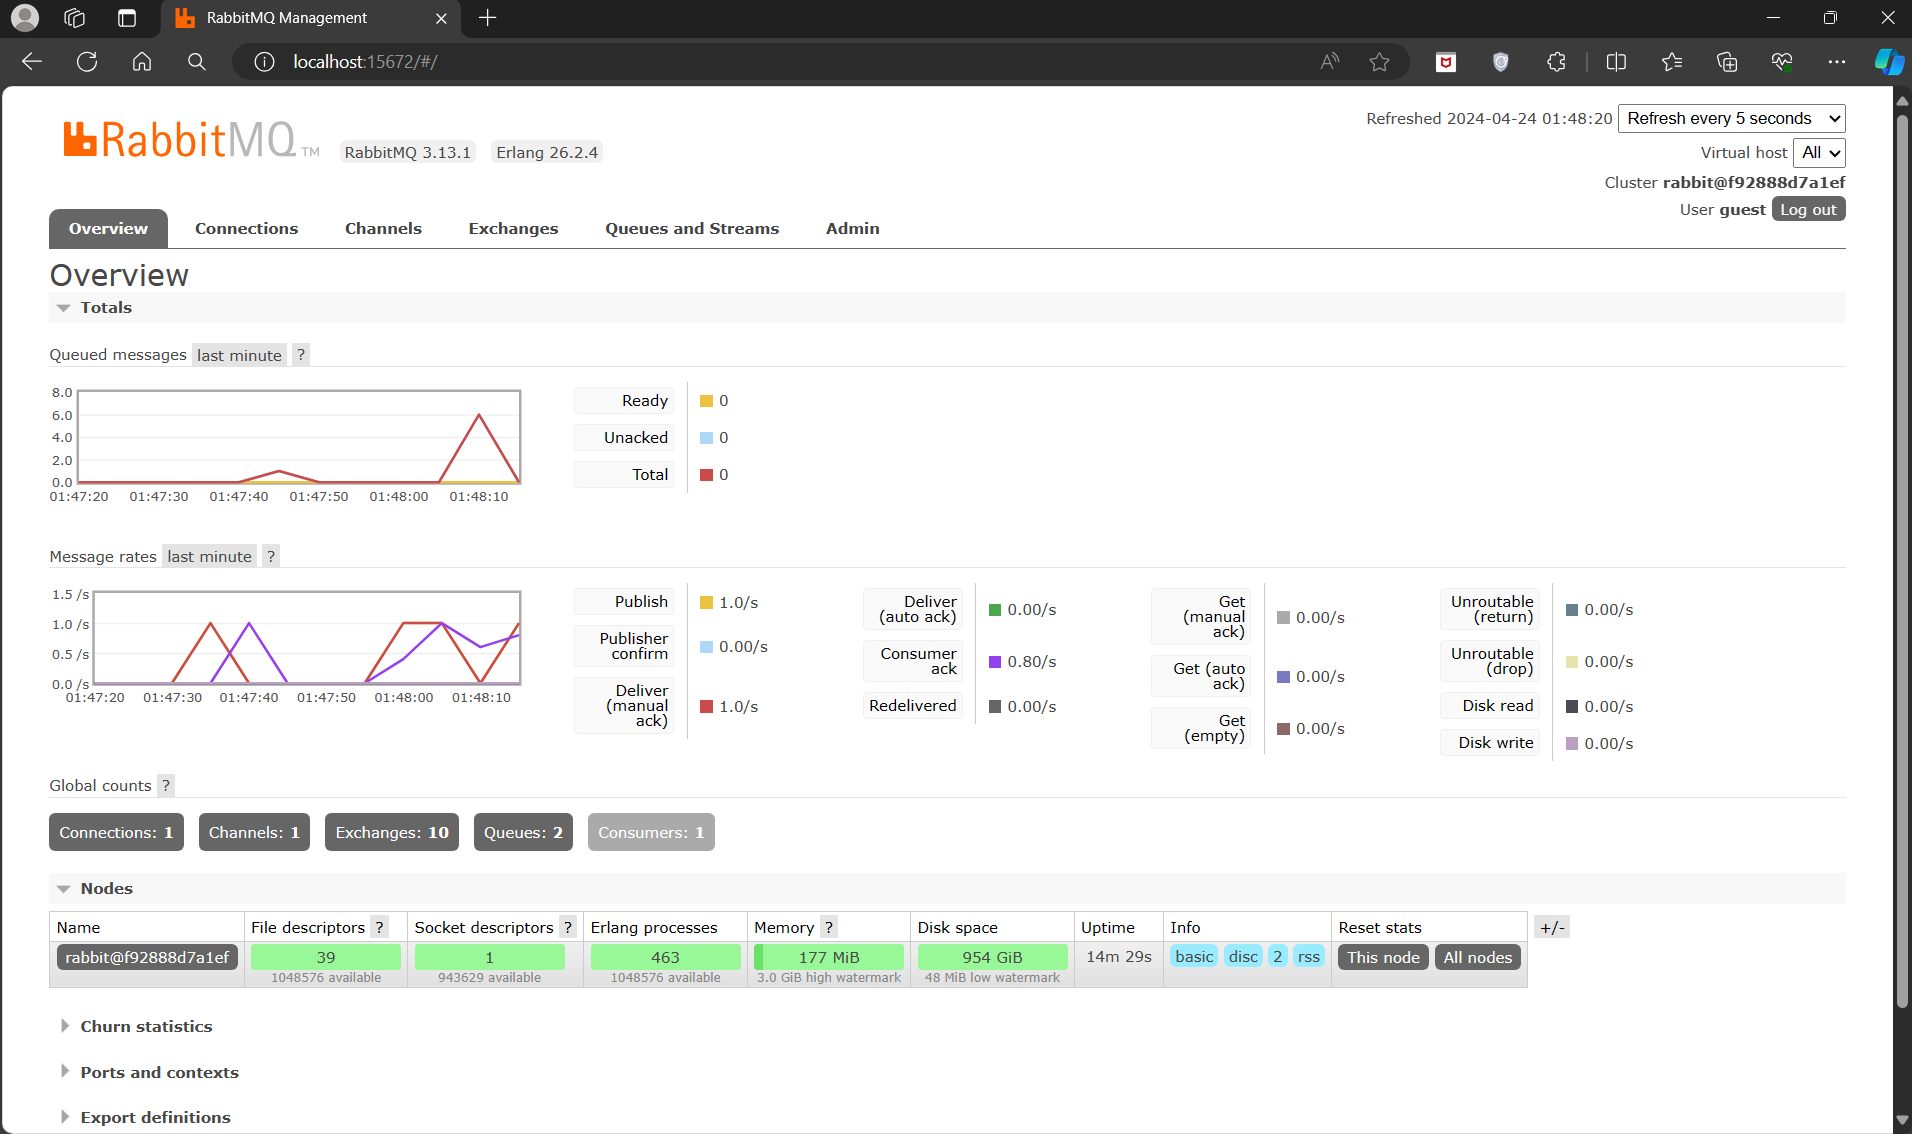
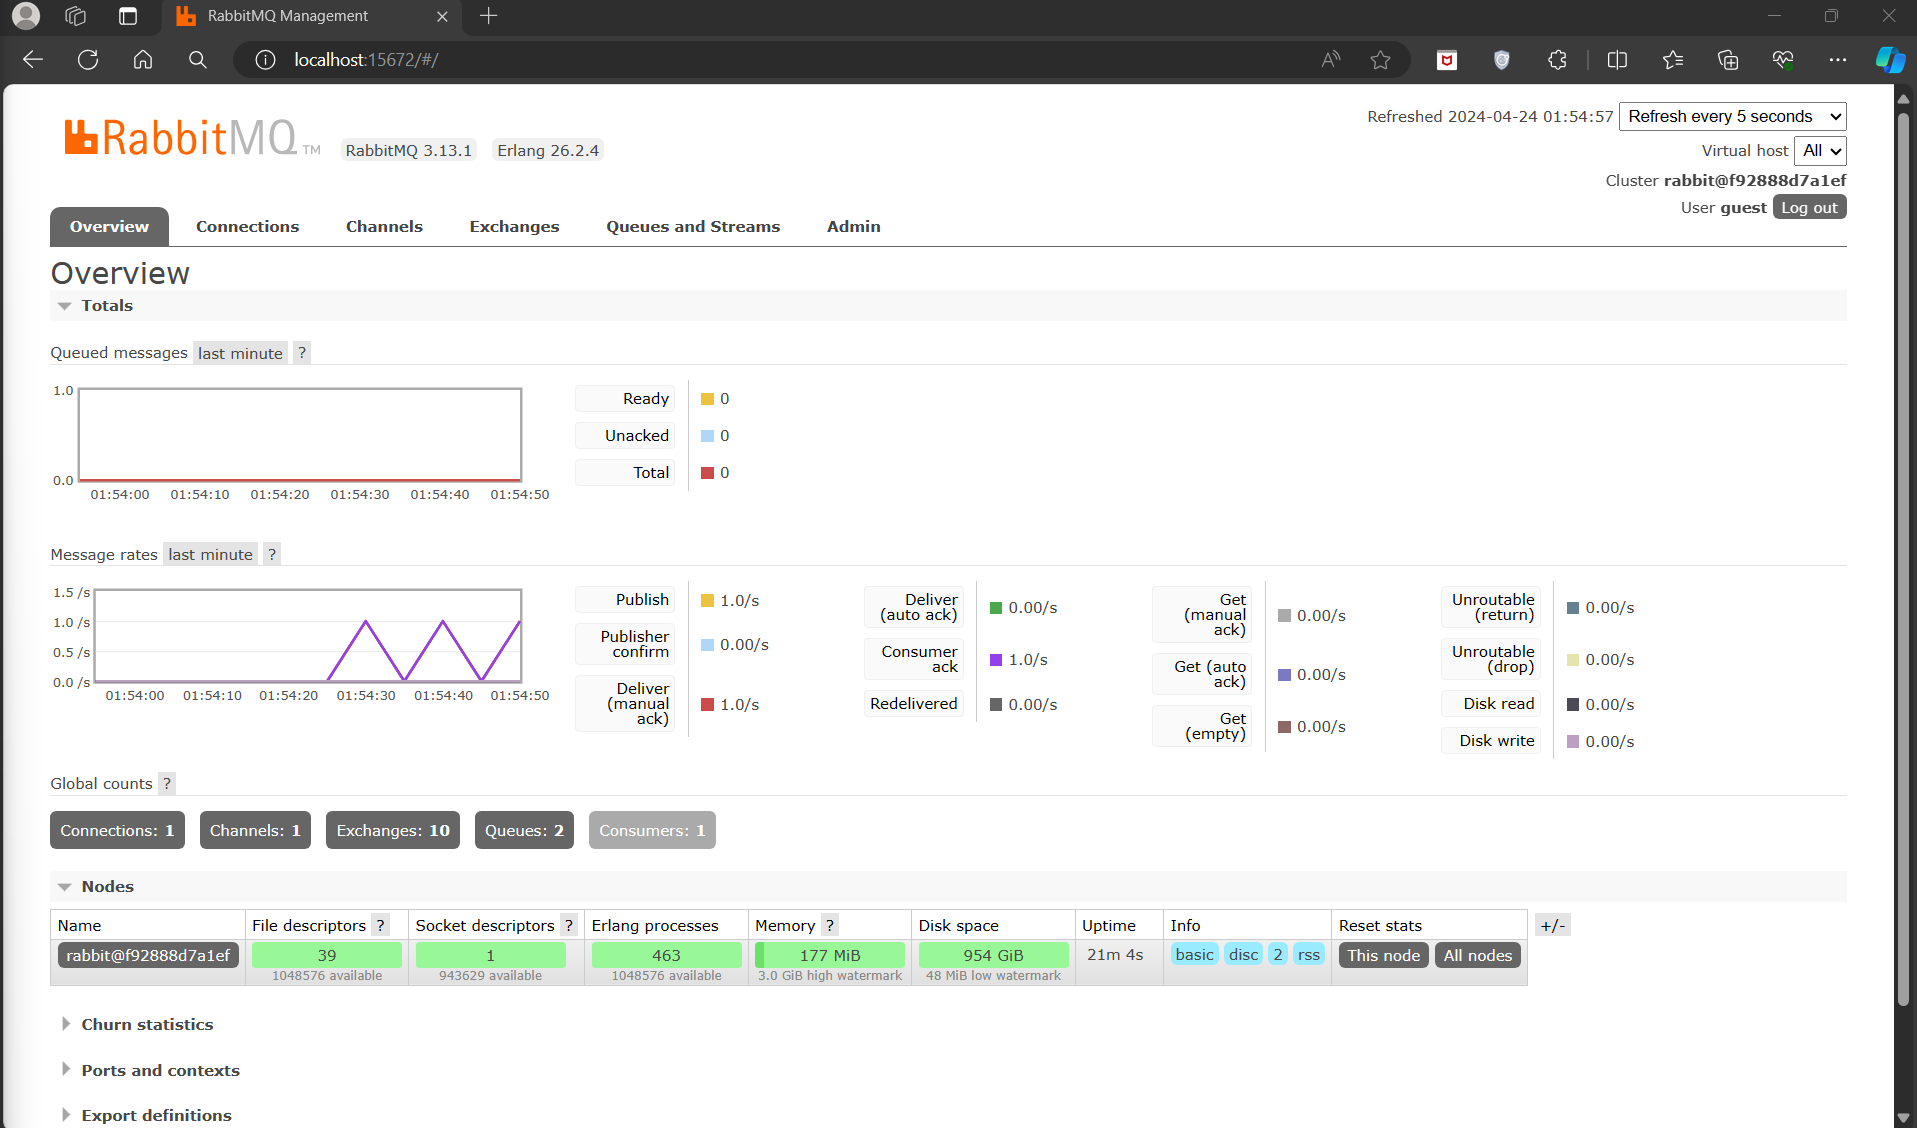
Revised: Monitoring chart based on publisher.

diff --git a/readme.md b/readme.md
@@ -32,3 +32,5 @@ The URL `guest:guest@localhost:5672` is the connection URL to the RabbitMQ serve
 ### Explanation :
 
 The spike on the "message rates" chart is caused by the publisher program sending data to the message broker. The spike occurs when the publisher program sends data to the message broker. The spike represents the number of messages sent by the publisher program to the message broker.
+
+clarification : I accidentally uncommented `// thread::sleep(ten_millis);` on the first run, so I had to revised the screenshot (yes, The initial commit main.rs on subscriber had the sleep uncommented)
